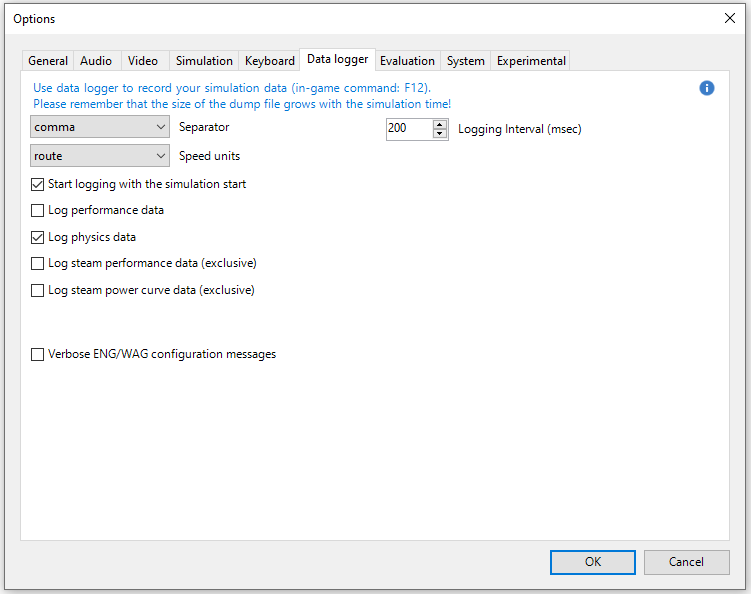
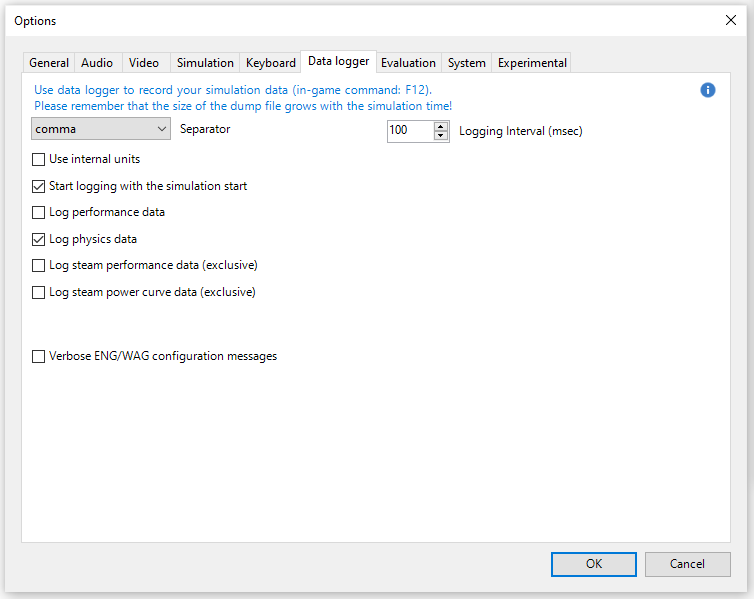
Merge pull request #1234 from rwf-rr/data-logger-units
Use system settings for Data Logger Units, for train physics only.

Pull request: Use system settings for Data Logger Units, for train physics only.
Previously, the data logger had a setting for the speed unit, but used internal units for everything else.

This PR changes the data logger to use the system settings to determine the units. The speed, force, distance and pressure units are then converted from the internal unit to the system-configured units.

There is an override in the data logger options to use internal (native) units, i.e do not do any conversion.

These changes apply only to the train physics section of the data logger (the previous speed-unit setting also applied to the train physics only). The steam locomotive data seems rather specific, and I am not familiar with steam locomotives. So I left them unchanged. Maybe someone else can add unit conversion to them. There is a proposal for steam in [this thread](https://www.elvastower.com/forums/index.php?/topic/39448-units-for-steam-locos-in-the-data-logger/page__view__findpost__p__324380), but it lacks feedback.

See [forum discussion](https://www.elvastower.com/forums/index.php?/topic/39186-who-is-using-the-data-logger-and-for-what) and Trello card [#617](https://trello.com/c/kGbRsMeL/617-data-logger-configurable-interval-configurable-units-more-train-data).

A **significant change** is that the unit is now included in the header line, and the subsequent cells only have the value. This makes graphing the values simpler. Originally the parameters with conversion had the unit with the data cells.

This is how the data looked before:

```
[…]

diff --git a/Source/RunActivity/Viewer3D/InfoDisplay.cs b/Source/RunActivity/Viewer3D/InfoDisplay.cs
@@ -20,11 +20,12 @@
 using System;
 using System.Diagnostics;
 using System.IO;
+using System.Globalization;
 using System.Linq;
-using System.Runtime.InteropServices;
 using Orts.Simulation.RollingStocks;
 using ORTS.Common;
 using ORTS.Common.Input;
+using Orts.Simulation.RollingStocks.SubSystems.Brakes;
 
 namespace Orts.Viewer3D
 {
@@ -37,6 +38,15 @@ namespace Orts.Viewer3D
         readonly DataLogger Logger;
         readonly int ProcessorCount = System.Environment.ProcessorCount;
 
+        readonly bool UseNativeUnits = false;  // when true, do not perform any conversions
+        readonly bool IsMetric = true;
+
+        readonly string DistanceUnit = FormatStrings.m;
+        readonly string SpeedUnit = "m/s";  // there isn't a format for this
+        readonly string ForceUnit = FormatStrings.n;
+        readonly PressureUnit BrakeCylinderPressureUnitEnum = PressureUnit.PSI;
+        readonly PressureUnit MainReservoirPressureUnitEnum = PressureUnit.PSI;
+
         int FrameNumber;
         double LastUpdateRealTime;   // update text message only 10 times per second
         double NextLogTime;
@@ -46,6 +56,32 @@ namespace Orts.Viewer3D
         public InfoDisplay(Viewer viewer)
         {
             Viewer = viewer;
+            UseNativeUnits = viewer.Settings.DataLogUseInternalUnits;
+
+            IsMetric = viewer.Settings.Units == "Metric" || (viewer.Settings.Units == "Automatic" && System.Globalization.RegionInfo.CurrentRegion.IsMetric) ||
+                (viewer.Settings.Units == "Route" && viewer.Simulator.TRK.Tr_RouteFile.MilepostUnitsMetric);
+
+            if (!UseNativeUnits)
+            {
+                DistanceUnit = IsMetric ? FormatStrings.km : FormatStrings.mi;
+                SpeedUnit = IsMetric ? FormatStrings.kmph : FormatStrings.mph;
+                ForceUnit = IsMetric ? FormatStrings.kN : FormatStrings.klbf;
+
+                // being paranoid, as player locomotive should always be initialized at this time
+                try
+                {
+                    if (!(Viewer.PlayerLocomotive as MSTSLocomotive).BrakeSystemPressureUnits[BrakeSystemComponent.MainReservoir].Equals(PressureUnit.None))
+                    {
+                        BrakeCylinderPressureUnitEnum = (Viewer.PlayerLocomotive as MSTSLocomotive).BrakeSystemPressureUnits[BrakeSystemComponent.BrakeCylinder];
+                        MainReservoirPressureUnitEnum = (Viewer.PlayerLocomotive as MSTSLocomotive).BrakeSystemPressureUnits[BrakeSystemComponent.MainReservoir];
+                    }
+                }
+                catch (Exception ex)
+                {
+                    Trace.TraceWarning("Player Locomotive not initialized; cannot determine pressure unit.");
+                }
+            }
+
             Logger = new DataLogger(Path.Combine(Viewer.Settings.LoggingPath, "OpenRailsDump.csv"));
 
             if (Viewer.Settings.DataLogger)
@@ -188,19 +224,19 @@ namespace Orts.Viewer3D
                     Logger.Data(Viewer.PlayerLocomotive.Direction.ToString());
                     Logger.Data(Viewer.PlayerTrain.MUReverserPercent.ToString("F0"));
                     Logger.Data(Viewer.PlayerLocomotive.ThrottlePercent.ToString("F0"));
-                    Logger.Data(Viewer.PlayerLocomotive.MotiveForceN.ToString("F0"));
-                    Logger.Data(Viewer.PlayerLocomotive.BrakeForceN.ToString("F0"));
-                    Logger.Data((Viewer.PlayerLocomotive as MSTSLocomotive).LocomotiveAxles.AxleMotiveForceN.ToString("F2"));
+                    Logger.Data(ConvertForce(Viewer.PlayerLocomotive.MotiveForceN));
+                    Logger.Data(ConvertForce(Viewer.PlayerLocomotive.BrakeForceN));
+                    Logger.Data(ConvertForce((Viewer.PlayerLocomotive as MSTSLocomotive).LocomotiveAxles.AxleMotiveForceN));
                     Logger.Data((Viewer.PlayerLocomotive as MSTSLocomotive).LocomotiveAxles.SlipSpeedPercent.ToString("F1"));
-                    DataLoggerLogSpeed(Viewer.PlayerLocomotive.SpeedMpS);
-                    DataLoggerLogSpeed(Viewer.PlayerTrain.AllowedMaxSpeedMpS);
-                    Logger.Data((Viewer.PlayerLocomotive.DistanceM.ToString("F0")));
-                    Logger.Data((Viewer.PlayerLocomotive.GravityForceN.ToString("F0")));
+                    Logger.Data(ConvertSpeed(Viewer.PlayerLocomotive.SpeedMpS));
+                    Logger.Data(ConvertSpeed(Viewer.PlayerTrain.AllowedMaxSpeedMpS));  // loco does not have a max speed
+                    Logger.Data(ConvertDistance(Viewer.PlayerLocomotive.DistanceM));
+                    Logger.Data(ConvertForce(Viewer.PlayerLocomotive.GravityForceN));
                     Logger.Data((Viewer.PlayerLocomotive as MSTSLocomotive).TrainBrakeController?.CurrentValue.ToString("F2"));
                     Logger.Data((Viewer.PlayerLocomotive as MSTSLocomotive).EngineBrakeController?.CurrentValue.ToString("F2"));
                     Logger.Data((Viewer.PlayerLocomotive as MSTSLocomotive).BrakemanBrakeController?.CurrentValue.ToString("F2"));
-                    Logger.Data(Viewer.PlayerLocomotive.BrakeSystem.GetCylPressurePSI().ToString("F0"));
-                    Logger.Data((Viewer.PlayerLocomotive as MSTSLocomotive).MainResPressurePSI.ToString("F0"));
+                    Logger.Data(ConvertPressure(Viewer.PlayerLocomotive.BrakeSystem.GetCylPressurePSI(), BrakeCylinderPressureUnitEnum));
+                    Logger.Data(ConvertPressure((Viewer.PlayerLocomotive as MSTSLocomotive).MainResPressurePSI, MainReservoirPressureUnitEnum));
                     if (Viewer.PlayerLocomotive is MSTSDieselLocomotive diesel)
                     {
                         Logger.Data(diesel.DieselEngines[0].RealRPM.ToString("F0"));
@@ -258,30 +294,6 @@ namespace Orts.Viewer3D
                 }
             }
             Logger.End();
-        }
-
-        void DataLoggerLogSpeed(float speedMpS)
-        {
-            string result;
-            switch (Viewer.Settings.DataLogSpeedUnits)
-            {
-                case "route":
-                    result = FormatStrings.FormatSpeed(speedMpS, Viewer.MilepostUnitsMetric);
-                    break;
-                case "mps":
-                    result = speedMpS.ToString("F1");
-                    break;
-                case "mph":
-                    result = MpS.FromMpS(speedMpS, false).ToString("F1");
-                    break;
-                case "kmph":
-                    result = MpS.FromMpS(speedMpS, true).ToString("F1");
-                    break;
-                default:
-                    result = FormatStrings.FormatSpeed(speedMpS, Viewer.MilepostUnitsMetric);
-                    break;
-            }
-            Logger.Data(result);
         }
 
         void DataLoggerStart()
@@ -359,19 +371,19 @@ namespace Orts.Viewer3D
                     Logger.Data("Player Direction");
                     Logger.Data("Player Reverser [%]");
                     Logger.Data("Player Throttle [%]");
-                    Logger.Data("Player Motive Force [N]");
-                    Logger.Data("Player Brake Force [N]");
-                    Logger.Data("Player Axle Force [N]");
+                    Logger.Data($"Player Motive Force [{ForceUnit}]");
+                    Logger.Data($"Player Brake Force [{ForceUnit}]");
+                    Logger.Data($"Player Axle Force [{ForceUnit}]");
                     Logger.Data("Player Wheelslip");
-                    Logger.Data($"Player Speed [{Viewer.Settings.DataLogSpeedUnits}]");
-                    Logger.Data($"Speed Limit [{Viewer.Settings.DataLogSpeedUnits}]");
-                    Logger.Data("Distance [m]");
-                    Logger.Data("Player Gravity Force [N]");
+                    Logger.Data($"Player Speed [{SpeedUnit}]");
+                    Logger.Data($"Speed Limit [{SpeedUnit}]");
+                    Logger.Data($"Distance [{DistanceUnit}]");
+                    Logger.Data($"Player Gravity Force [{ForceUnit}]");
                     Logger.Data("Train Brake");
                     Logger.Data("Engine Brake");
                     Logger.Data("Brakeman Brake");
-                    Logger.Data("Player Cylinder PSI");
-                    Logger.Data("Player Main Res PSI");
+                    Logger.Data($"Player Cylinder [{BrakeCylinderPressureUnitEnum.ToString()}]");
+                    Logger.Data($"Player Main Res [{MainReservoirPressureUnitEnum.ToString()}]");
                     Logger.Data("D:Real RPM / E:panto 1 / S:Blower usage LBpS");
                     Logger.Data("D:Demanded RPM / E:panto 2 / S:Boiler PSI");
                     Logger.Data("D:Load % / E:panto 3 / S:Cylinder Cocks open");
@@ -392,6 +404,38 @@ namespace Orts.Viewer3D
         void DataLoggerStop()
         {
             Logger.Flush();
+        }
+
+        /// <summary>Convert distance in meters to the desired unit, but without appending the unit.</summary>
+        string ConvertDistance(float distanceM)
+        {
+            if (UseNativeUnits) return distanceM.ToString("F0");
+            float value = IsMetric ? Me.ToKiloM(distanceM) : Me.ToMi(distanceM);
+            return string.Format(CultureInfo.CurrentCulture, "{0:F3}", value);
+        }
+
+        /// <summary>Convert speed in meters per second to the desired unit, but without appending the unit.</summary>
+        string ConvertSpeed(float speedMpS)
+        {
+            if (UseNativeUnits) return speedMpS.ToString("F1");
+            float value = IsMetric ? MpS.ToKpH(speedMpS) : MpS.ToMpH(speedMpS);
+            return string.Format(CultureInfo.CurrentCulture, "{0:F1}", value);
+        }
+
+        /// <summary>Convert force in Newton to the desired unit, but without appending the unit.</summary>
+        string ConvertForce(float forceN)
+        {
+            if (UseNativeUnits) return forceN.ToString("F0");
+            float value = IsMetric ? forceN / 1000 : N.ToLbf(forceN) / 1000;
+            return string.Format(CultureInfo.CurrentCulture, "{0:F3}", value);
+        }
+
+        /// <summary>Convert pressure in PSI to the desired unit, but without appending the unit.</summary>
+        string ConvertPressure(float pressurePsi, PressureUnit outUnit)
+        {
+            if (UseNativeUnits) return pressurePsi.ToString("F1");
+            string value = FormatStrings.FormatPressure(pressurePsi, PressureUnit.PSI, outUnit, false);
+            return value;
         }
 
         public void Profile(double elapsedRealSeconds) // should be called every 100mS

diff --git a/Source/Menu/Options.Designer.cs b/Source/Menu/Options.Designer.cs
@@ -162,9 +162,8 @@
             this.tabPageDataLogger = new System.Windows.Forms.TabPage();
             this.checkDataLogSteamPowerCurve = new System.Windows.Forms.CheckBox();
             this.pbDataLoggerOptions = new System.Windows.Forms.PictureBox();
-            this.comboDataLogSpeedUnits = new System.Windows.Forms.ComboBox();
             this.comboDataLoggerSeparator = new System.Windows.Forms.ComboBox();
-            this.label19 = new System.Windows.Forms.Label();
+            this.checkDataLogUseInternalUnits = new System.Windows.Forms.CheckBox();
             this.label18 = new System.Windows.Forms.Label();
             this.checkDataLogPerformance = new System.Windows.Forms.CheckBox();
             this.checkDataLogger = new System.Windows.Forms.CheckBox();
@@ -2056,9 +2055,8 @@
             // 
             this.tabPageDataLogger.Controls.Add(this.checkDataLogSteamPowerCurve);
             this.tabPageDataLogger.Controls.Add(this.pbDataLoggerOptions);
-            this.tabPageDataLogger.Controls.Add(this.comboDataLogSpeedUnits);
             this.tabPageDataLogger.Controls.Add(this.comboDataLoggerSeparator);
-            this.tabPageDataLogger.Controls.Add(this.label19);
+            this.tabPageDataLogger.Controls.Add(this.checkDataLogUseInternalUnits);
             this.tabPageDataLogger.Controls.Add(this.label18);
             this.tabPageDataLogger.Controls.Add(this.checkDataLogPerformance);
             this.tabPageDataLogger.Controls.Add(this.checkDataLogger);
@@ -2096,16 +2094,6 @@
             this.pbDataLoggerOptions.TabStop = false;
             this.pbDataLoggerOptions.Click += new System.EventHandler(this.HelpIcon_Click);
             // 
-            // comboDataLogSpeedUnits
-            // 
-            this.comboDataLogSpeedUnits.DropDownStyle = System.Windows.Forms.ComboBoxStyle.DropDownList;
-            this.comboDataLogSpeedUnits.FormattingEnabled = true;
-            this.comboDataLogSpeedUnits.Location = new System.Drawing.Point(5, 62);
-            this.comboDataLogSpeedUnits.Margin = new System.Windows.Forms.Padding(2);
-            this.comboDataLogSpeedUnits.Name = "comboDataLogSpeedUnits";
-            this.comboDataLogSpeedUnits.Size = new System.Drawing.Size(121, 21);
-            this.comboDataLogSpeedUnits.TabIndex = 3;
-            // 
             // comboDataLoggerSeparator
             // 
             this.comboDataLoggerSeparator.DropDownStyle = System.Windows.Forms.ComboBoxStyle.DropDownList;
@@ -2116,15 +2104,16 @@
             this.comboDataLoggerSeparator.Size = new System.Drawing.Size(121, 21);
             this.comboDataLoggerSeparator.TabIndex = 1;
             // 
-            // label19
+            // checkDataLogUseInternalUnits
             // 
-            this.label19.AutoSize = true;
-            this.label19.Location = new System.Drawing.Point(131, 65);
-            this.label19.Margin = new System.Windows.Forms.Padding(3);
-            this.label19.Name = "label19";
-            this.label19.Size = new System.Drawing.Size(63, 13);
-            this.label19.TabIndex = 4;
-            this.label19.Text = "Speed units";
+            this.checkDataLogUseInternalUnits.AutoSize = true;
+            this.checkDataLogUseInternalUnits.Location = new System.Drawing.Point(6, 65);
+            this.checkDataLogUseInternalUnits.Name = "checkDataLogUseInternalUnits";
+            this.checkDataLogUseInternalUnits.Size = new System.Drawing.Size(107, 17);
+            this.checkDataLogUseInternalUnits.TabIndex = 3;
+            this.checkDataLogUseInternalUnits.Text = "Use internal units";
+            this.toolTip1.SetToolTip(this.checkDataLogUseInternalUnits, "When checked, use units used by the software (i.e. no conversion).");
+            this.checkDataLogUseInternalUnits.UseVisualStyleBackColor = true;
             // 
             // label18
             // 
@@ -3206,6 +3195,7 @@
         private System.Windows.Forms.TabPage tabPageDataLogger;
         private System.Windows.Forms.ComboBox comboDataLoggerSeparator;
         private System.Windows.Forms.Label label17;
+        private System.Windows.Forms.CheckBox checkDataLogUseInternalUnits;
         private System.Windows.Forms.CheckBox checkDataLogPhysics;
         private System.Windows.Forms.CheckBox checkDataLogPerformance;
         private System.Windows.Forms.CheckBox checkDataLogSteamPerformance;
@@ -3227,8 +3217,6 @@
         private System.Windows.Forms.Panel panelRDButtons;
         private System.Windows.Forms.CheckBox checkDataLogger;
         private System.Windows.Forms.Label label18;
-        private System.Windows.Forms.ComboBox comboDataLogSpeedUnits;
-        private System.Windows.Forms.Label label19;
         private System.Windows.Forms.TabPage tabPageEvaluate;
         private System.Windows.Forms.CheckedListBox checkListDataLogTSContents;
         private System.Windows.Forms.Label labelDataLogTSInterval;

diff --git a/Source/Menu/Options.cs b/Source/Menu/Options.cs
@@ -198,15 +198,7 @@ namespace Menu
             comboDataLoggerSeparator.DisplayMember = "Value";
             comboDataLoggerSeparator.ValueMember = "Key";
             comboDataLoggerSeparator.Text = catalog.GetString(Settings.DataLoggerSeparator);
-            var dictionaryDataLogSpeedUnits = new Dictionary<string, string>();
-            dictionaryDataLogSpeedUnits.Add("route", catalog.GetString("route"));
-            dictionaryDataLogSpeedUnits.Add("mps", catalog.GetString("m/s"));
-            dictionaryDataLogSpeedUnits.Add("kmph", catalog.GetString("km/h"));
-            dictionaryDataLogSpeedUnits.Add("mph", catalog.GetString("mph"));
-            comboDataLogSpeedUnits.DataSource = new BindingSource(dictionaryDataLogSpeedUnits, null);
-            comboDataLogSpeedUnits.DisplayMember = "Value";
-            comboDataLogSpeedUnits.ValueMember = "Key";
-            comboDataLogSpeedUnits.Text = catalog.GetString(Settings.DataLogSpeedUnits);
+            checkDataLogUseInternalUnits.Checked = Settings.DataLogUseInternalUnits;
             checkDataLogger.Checked = Settings.DataLogger;
             checkDataLogPerformance.Checked = Settings.DataLogPerformance;
             checkDataLogPhysics.Checked = Settings.DataLogPhysics;
@@ -471,7 +463,7 @@ namespace Menu
 
             // DataLogger tab
             Settings.DataLoggerSeparator = comboDataLoggerSeparator.SelectedValue.ToString();
-            Settings.DataLogSpeedUnits = comboDataLogSpeedUnits.SelectedValue.ToString();
+            Settings.DataLogUseInternalUnits = checkDataLogUseInternalUnits.Checked;
             Settings.DataLogger = checkDataLogger.Checked;
             Settings.DataLogPerformance = checkDataLogPerformance.Checked;
             Settings.DataLogPhysics = checkDataLogPhysics.Checked;

diff --git a/Source/Orts.Settings/UserSettings.cs b/Source/Orts.Settings/UserSettings.cs
@@ -206,8 +206,8 @@ namespace ORTS.Settings
         // Data logger settings:
         [Default("comma")]
         public string DataLoggerSeparator { set; get; }
-        [Default("route")]
-        public string DataLogSpeedUnits { get; set; }
+        [Default(false)]
+        public bool DataLogUseInternalUnits { get; set; }
         [Default(false)]
         public bool DataLogStart { get; set; }
         [Default(true)]

diff --git a/Source/Documentation/Manual/options.rst b/Source/Documentation/Manual/options.rst
@@ -628,6 +628,7 @@ By default this is assigned to the backtick key (` )
 
 You can look up this function’s keybinding in-game by using the F1 help screen.
 
+.. _options-data-logger:
 
 Data Logger Options
 ===================
@@ -642,6 +643,12 @@ This file can be used for later analysis.
 A *Logging interval* of 0 (zero) dumps data for each frame (i.e. logs at the frame rate).
 This is intended for analyzing system and graphics performance.
 Larger intervals are better for looking at train performance.
+
+For physics data only, the data logger uses the units configured in the
+:ref:`general options <options-general>`,
+for example km/h for metric and mph for imperial units.
+This conversion can be disabled by checking the box *Use internal units*,
+in which case data is logged in the units used by the software (e.g. m/s).
 
 .. _options-system:
 